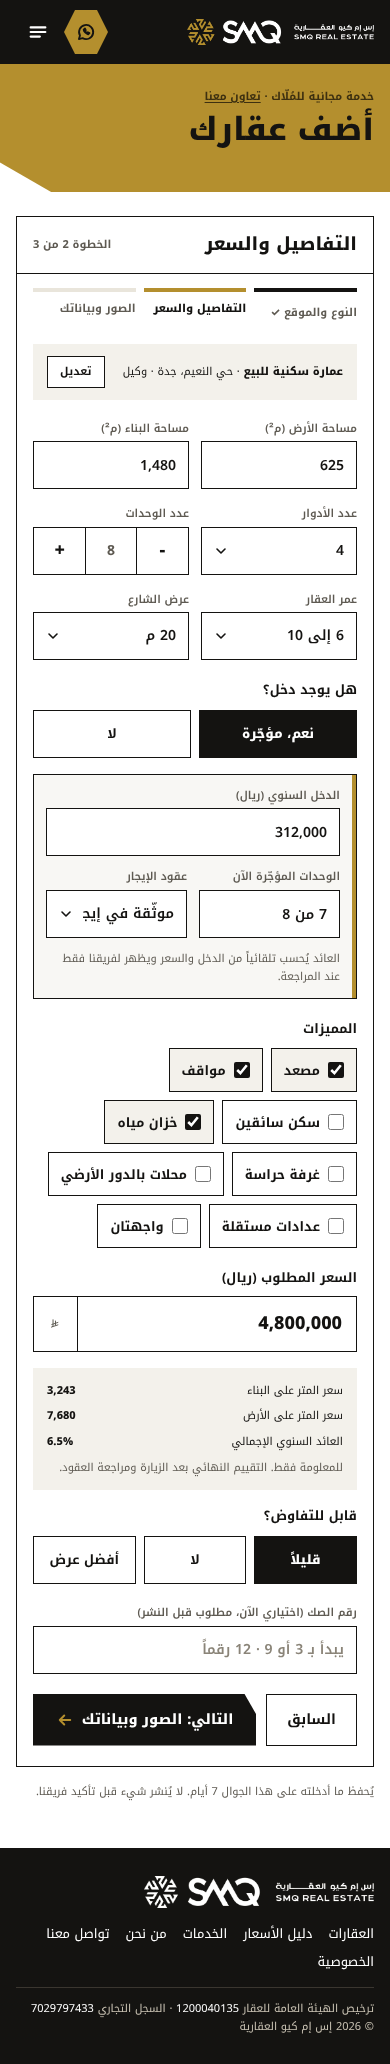
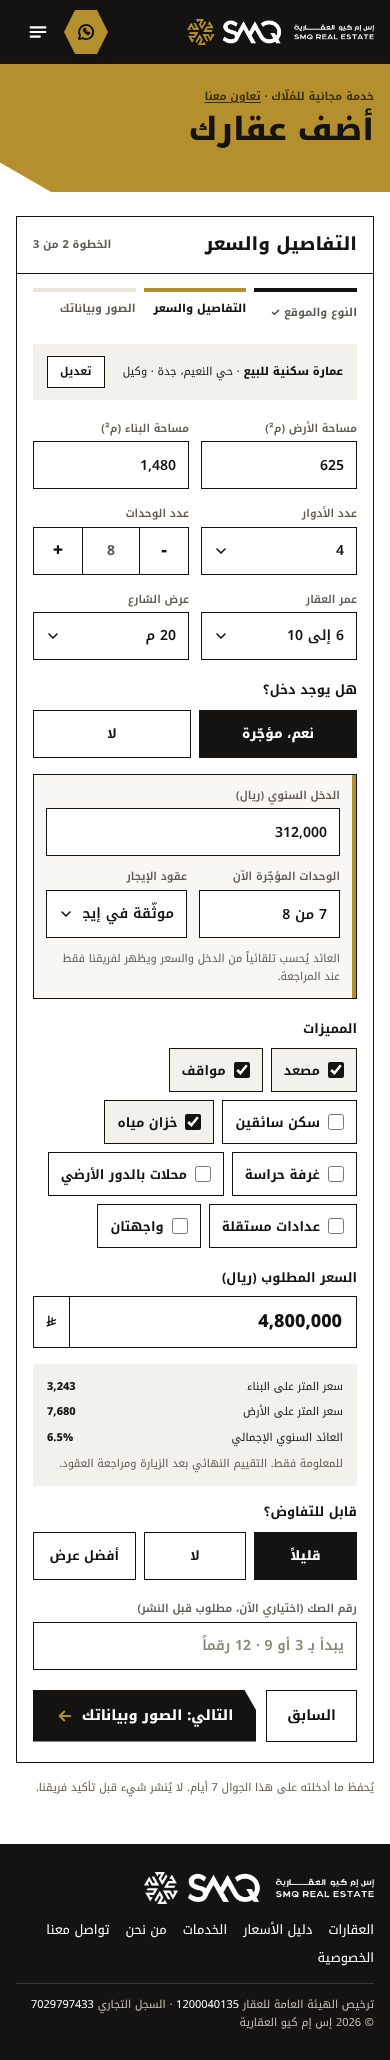
G5 board review: hub doors, add flow, marketer form, success screens
- Hub-D doors at the board height with the facts pinned above the CTA;
  facts column widths; «الحقول [للتأكيد]» as one chip
- Marketer link bar order, form header chip, CV upload tile
- Consent lines regular; phone hint; price field riyal sign and height;
  room and unit counters; «كيف يسير الأمر» rows
- Success number at h1 size, summary rows, single text runs

Claude-Session: https://claude.ai/code/session_01RctsPUCwu79Fhv9ujF1kfR

diff --git a/components/pages/g5/parts.tsx b/components/pages/g5/parts.tsx
@@ -123,14 +123,14 @@ function Eyebrow({ hub, crumb }: { hub?: boolean; crumb?: boolean }) {
   );
 }
 
-/** Phone hero of the add steps (Add-Step1-M / Add-Step2-M / Add-Step2-Building-M / Add-M) */
-export function HeroPhone({ text, hub, className }: { text?: ReactNode; hub?: boolean; className?: string }) {
+/** Phone hero of the add steps (Add-Step1-M / Add-Step2-M / Add-Step2-Building-M / Add-M; Add-M sets its line at 14px) */
+export function HeroPhone({ text, hub, className, textClassName = "text-label" }: { text?: ReactNode; hub?: boolean; className?: string; textClassName?: string }) {
   return (
     <section className={cx("bg-gold text-ink md:hidden", HERO_CUT_PHONE, className)}>
       <Container className="flex flex-col gap-1.5 pb-11 pt-6">
         <Eyebrow hub={hub} />
         <h1 className="m-0 text-h1">أضف عقارك</h1>
-        {text && <p className="m-0 text-label font-normal leading-relaxed text-on-gold-muted">{text}</p>}
+        {text && <p className={cx("m-0 font-normal leading-relaxed text-on-gold-muted", textClassName)}>{text}</p>}
       </Container>
     </section>
   );
@@ -168,13 +168,13 @@ export function HowItWorks({ variant }: { variant: "phone" | "desktop" }) {
       </h2>
       <ol className="m-0 flex list-none flex-col p-0">
         {HOW.map((s, i) => (
-          <li key={s.t} className={cx("flex items-start gap-3.5", phone ? "py-3.5" : "px-6 py-4.5", i > 0 && "border-t border-line")}>
+          <li key={s.t} className={cx("flex items-start", phone ? "gap-3.5 py-3.5" : "gap-4 px-6 py-5", i > 0 && "border-t border-line")}>
             <HexBadge tone={i === 0 ? "ink" : "outline"} className={phone ? "size-10 text-label" : "size-11 text-body"}>
               {i + 1}
             </HexBadge>
-            <span className="flex flex-col gap-1 pt-0.5">
-              <span className={cx("font-extrabold", phone ? "text-body" : "text-h3")}>{s.t}</span>
-              <span className={cx("font-normal text-muted", phone ? "text-caption leading-relaxed" : "text-label")}>{s.d}</span>
+            <span className={cx("flex flex-col pt-0.5", phone ? "gap-1" : "gap-0.5")}>
+              <span className="text-body font-extrabold">{s.t}</span>
+              <span className={cx("font-normal leading-relaxed text-muted", phone ? "text-caption" : "text-label")}>{s.d}</span>
             </span>
           </li>
         ))}
@@ -188,11 +188,11 @@ export function HeroDesktopIntro() {
   return (
     <Container className="hidden pt-12 md:block">
       <div className="grid grid-cols-2 items-stretch gap-8">
-        <section className="flex flex-col items-start gap-2 bg-gold px-10 pb-24 pt-10 text-ink [clip-path:polygon(0_0,100%_0,100%_100%,64px_100%,0_calc(100%-37px))]">
+        <section className="flex flex-col items-start gap-3.5 bg-gold p-10 text-ink [clip-path:polygon(0_0,100%_0,100%_100%,64px_100%,0_calc(100%-37px))]">
           <Eyebrow />
           <h1 className="m-0 text-display">أضف عقارك</h1>
-          <p className="m-0 max-w-xl text-body font-normal leading-relaxed text-on-gold-muted">نموذج من ثلاث خطوات يأخذ دقيقتين. بعدها نتواصل معك خلال 24 ساعة، نصور، وننشر لعملاء جاهزين.</p>
-          <a href={waLink(WA_ADD)} target="_blank" rel="noopener noreferrer" className="mt-4 inline-flex h-13 items-center gap-2.5 bg-ink px-5 text-label font-extrabold text-paper no-underline hover:bg-ink-2 motion-hover transition-colors">
+          <p className="m-0 max-w-120 text-body font-normal text-on-gold-muted">نموذج من ثلاث خطوات يأخذ دقيقتين. بعدها نتواصل معك خلال 24 ساعة، نصور، وننشر لعملاء جاهزين.</p>
+          <a href={waLink(WA_ADD)} target="_blank" rel="noopener noreferrer" className="mt-2 inline-flex h-13 items-center gap-2.5 bg-ink px-5 text-label font-extrabold text-paper no-underline hover:bg-ink-2 motion-hover transition-colors">
             <WhatsAppIcon size={18} />
             تفضّل واتساب؟ أرسل الصك والصور مباشرة
           </a>
@@ -384,7 +384,7 @@ export function Counter({ label, value, onChange, min = 0, max = 99, id }: { lab
       <span id={lid} className="text-caption font-semibold text-muted">
         {label}
       </span>
-      <div role="group" aria-labelledby={lid} className="grid h-12 grid-cols-3 border-interactive bg-paper">
+      <div role="group" aria-labelledby={lid} className="grid h-12 grid-cols-[3rem_minmax(0,1fr)_3rem] border-interactive bg-paper">
         <button type="button" aria-label="أقل" className={btn} disabled={value <= min} onClick={() => onChange(Math.max(min, value - 1))}>
           −
         </button>
@@ -440,7 +440,7 @@ export function MoneyField({ id, label, value, onChange, error, labelClassName =
       <label htmlFor={id} className={cx(labelClassName, error && "text-gold-text")}>
         {label}
       </label>
-      <div className={cx("flex h-14 items-stretch bg-paper", error ? "border-error bg-cream-focus" : "border-interactive has-[:focus]:border-gold has-[:focus]:bg-cream-focus")}>
+      <div className={cx("flex h-13 items-stretch bg-paper md:h-14", error ? "border-error bg-cream-focus" : "border-interactive has-[:focus]:border-gold has-[:focus]:bg-cream-focus")}>
         <NumberInput
           id={id}
           value={value}
@@ -449,7 +449,7 @@ export function MoneyField({ id, label, value, onChange, error, labelClassName =
           aria-describedby={error ? `${id}-error` : undefined}
           className="min-w-0 flex-1 bg-transparent px-3.5 text-h3 font-extrabold text-ink outline-none tnum"
         />
-        <span className="flex w-11 shrink-0 items-center justify-center border-s-[1.5px] border-ink text-label text-muted md:w-12">
+        <span className="flex shrink-0 items-center justify-center border-s-[1.5px] border-ink px-3 text-h3 text-ink md:px-3.5">
           <RiyalSign />
         </span>
       </div>
@@ -458,8 +458,10 @@ export function MoneyField({ id, label, value, onChange, error, labelClassName =
   );
 }
 
-/** One file chosen locally (the power of attorney, the brokerage contract, the CV): dashed tile → the file name */
-export function FileTile({ id, label, accept, prompt, file, onFile, hint }: { id: string; label: ReactNode; accept: string; prompt: string; file: string; onFile: (name: string) => void; hint?: ReactNode }) {
+/** One file chosen locally (the power of attorney, the brokerage contract, the CV): dashed tile (icon and prompt at the
+ *  line start, as Add-Step3-D and Marketer-M/D draw it) → the file name.
+ *  `cream` = the cream tile of a white form (Marketer CV); white inside the cream role block (Add-Step3-D). */
+export function FileTile({ id, label, accept, prompt, file, onFile, hint, cream }: { id: string; label: ReactNode; accept: string; prompt: string; file: string; onFile: (name: string) => void; hint?: ReactNode; cream?: boolean }) {
   return (
     <div className="flex min-w-0 flex-col gap-1">
       <label htmlFor={id} className="text-caption font-semibold text-muted">
@@ -475,7 +477,7 @@ export function FileTile({ id, label, accept, prompt, file, onFile, hint }: { id
           </button>
         </div>
       ) : (
-        <span className="relative flex h-12 cursor-pointer items-center justify-center gap-2 border-[1.5px] border-dashed border-ink bg-paper text-label font-bold text-ink hover:bg-cream has-[:focus-visible]:outline-3 has-[:focus-visible]:outline-offset-2 has-[:focus-visible]:outline-gold">
+        <span className={cx("relative flex h-12 cursor-pointer items-center gap-2.5 border-[1.5px] border-dashed border-ink px-3 text-label font-bold text-ink has-[:focus-visible]:outline-3 has-[:focus-visible]:outline-offset-2 has-[:focus-visible]:outline-gold", cream ? "bg-cream hover:bg-sand" : "bg-paper hover:bg-cream")}>
           <UploadIcon />
           {prompt}
           <input

diff --git a/components/pages/g5/Hub.tsx b/components/pages/g5/Hub.tsx
@@ -5,17 +5,25 @@
 import Link from "next/link";
 import type { ReactNode } from "react";
 import { DoorCard } from "@/components/alliance";
-import { Container, MarkedText } from "@/components/ui";
+import { Container, Mark, MarkedText } from "@/components/ui";
 import { useMarks } from "@/lib/presenter";
 import { cx, waLink } from "@/lib/format";
 import { HUB_FOOTER, Shell } from "./parts";
 
 type Tone = "owners" | "offices" | "marketers";
 
-/** «تحصل على / نحتاج منك / الوقت» under a hairline */
+/** Hub-D: each door is at least 520px tall and its facts sit at the bottom, above the CTA, with the free space after
+ *  the description. DoorCard's text wrapper is the card's second-to-last child (the CTA is the last), so on desktop it
+ *  grows into a flex column and the facts' mt-auto reaches the bottom. */
+const DOOR_D = "md:min-h-130 md:[&>span>:nth-last-child(2)]:flex md:[&>span>:nth-last-child(2)]:grow md:[&>span>:nth-last-child(2)]:flex-col";
+/** the description + facts column inside a door (fills the grown wrapper on desktop) */
+const BODY = "flex flex-col gap-3 md:grow";
+
+/** «تحصل على / نحتاج منك / الوقت» under a hairline: 72px / 84px key column (Hub-M / Hub-D); on desktop pinned to the
+ *  bottom of the door, 14px above the CTA */
 function Facts({ tone, rows }: { tone: Tone; rows: { k: string; v: ReactNode }[] }) {
   return (
-    <span className={cx("mt-1 grid grid-cols-[auto_minmax(0,1fr)] gap-x-4 gap-y-2.5 border-t pt-4 text-caption leading-relaxed md:text-label", tone === "offices" ? "border-ink-2" : tone === "owners" ? "border-on-gold-muted/40" : "border-line")}>
+    <span className={cx("mt-1 grid grid-cols-[4.5rem_minmax(0,1fr)] gap-x-2.5 gap-y-1 border-t pt-2.5 text-caption leading-relaxed md:mb-1 md:mt-auto md:grid-cols-[5.25rem_minmax(0,1fr)] md:gap-x-3 md:gap-y-1.5 md:pt-3 md:text-label", tone === "offices" ? "border-ink-2" : tone === "owners" ? "border-gold-text" : "border-line")}>
       {rows.map((r) => (
         <span key={r.k} className="contents">
           <span className={cx("font-extrabold", tone === "offices" ? "text-gold" : "text-ink")}>{r.k}</span>
@@ -73,8 +81,9 @@ export function Hub() {
             title="عندك عقار؟"
             cta="أضف عقارك"
             size="l"
+            className={DOOR_D}
             text={
-              <span className="flex flex-col gap-3">
+              <span className={BODY}>
                 <span className="text-label font-normal leading-relaxed md:text-body">
                   نعرضه بسعر معلن لمشترين جاهزين، بعد تحقق وتصوير، بلا تكلفة عليك.<span className="hidden md:inline"> شقة، فيلا، أو عمارة بدخل.</span>
                 </span>
@@ -97,8 +106,9 @@ export function Hub() {
             cta="اعرف عن التحالف"
             icon={<Honeycomb />}
             size="l"
+            className={DOOR_D}
             text={
-              <span className="relative flex flex-col gap-3">
+              <span className={cx("relative", BODY)}>
                 <span className="text-label font-normal leading-relaxed md:text-body">
                   {pd(
                     "تحالف مكاتب جدة العقارية: نمرّر طلبات المشترين وعروض العقارات بين المكاتب لنقفل الصفقات أسرع، وكل تعارف مسجّل.",
@@ -124,14 +134,16 @@ export function Hub() {
             cta="انضم كمسوّق"
             icon={
               marks ? (
-                <span className="absolute end-5 top-5 text-caption font-bold text-gold-text md:end-6 md:top-6">
-                  <MarkedText text="الحقول [للتأكيد]" />
+                <span className="absolute end-5 top-5 md:end-6 md:top-6">
+                  {/* Hub-M / Hub-D outline the whole «الحقول [للتأكيد]» as one chip */}
+                  <Mark>الحقول للتأكيد</Mark>
                 </span>
               ) : null
             }
             size="l"
+            className={DOOR_D}
             text={
-              <span className="flex flex-col gap-3">
+              <span className={BODY}>
                 <span className="text-label font-normal leading-relaxed md:text-body">سوّق وحداتنا برابطك الخاص. كل زيارة وضغطة واتساب تُحسب لك، والعمولة مكتوبة قبل أن تبدأ.</span>
                 <span className="flex items-center gap-2.5 bg-sand px-3 py-2.5 font-mono text-caption font-bold text-ink" dir="ltr">
                   <span aria-hidden className="inline-block size-2.5 bg-gold hex-flat" />

diff --git a/components/pages/g5/MarketerForm.tsx b/components/pages/g5/MarketerForm.tsx
@@ -6,7 +6,7 @@ import Link from "next/link";
 import { useRouter } from "next/navigation";
 import { useMemo, useState, type FormEvent } from "react";
 import { DistrictMultiSelect } from "@/components/alliance";
-import { Button, Checkbox, Container, MarkedText, SelectField, TextArea, TextField } from "@/components/ui";
+import { Button, Checkbox, Container, Mark, MarkedText, SelectField, TextArea, TextField } from "@/components/ui";
 import { forms } from "@/data/content";
 import { districts } from "@/data/districts";
 import { useHasHydrated } from "@/lib/location";
@@ -60,14 +60,15 @@ function Tiles() {
   );
 }
 
+/** The ink bar reads left to right as on the boards: the link at the line end, «مثال الرابط» (phone) at the start */
 function LinkBar() {
   return (
-    <div className="flex items-center justify-between gap-3 bg-ink px-4 py-3.5 text-paper cut-m md:px-5">
+    <div className="flex items-center justify-end gap-3 bg-ink px-4 py-3.5 text-paper cut-m md:px-5">
+      <span className="me-auto text-caption font-normal text-on-ink-muted md:hidden">مثال الرابط</span>
       <span className="inline-flex items-center gap-2.5 font-mono text-label" dir="ltr">
         <span aria-hidden className="inline-block size-2.5 bg-gold hex-flat" />
         smq-re.com/r/your-name
       </span>
-      <span className="text-caption font-normal text-on-ink-muted md:hidden">مثال الرابط</span>
     </div>
   );
 }
@@ -153,9 +154,15 @@ export function MarketerForm() {
               طلب الانضمام
             </h2>
             {marks && (
-              <span className="max-w-48 text-end text-caption font-extrabold leading-relaxed text-gold-text md:max-w-none">
-                <MarkedText text="الحقول [للتأكيد] حتى يصل النموذج الحقيقي" />
-              </span>
+              <>
+                <span className="max-w-48 text-end text-caption font-extrabold leading-relaxed text-gold-text md:hidden">
+                  <MarkedText text="الحقول [للتأكيد] حتى يصل النموذج الحقيقي" />
+                </span>
+                {/* Marketer-D outlines the whole note as one chip */}
+                <span className="hidden md:block">
+                  <Mark>الحقول للتأكيد حتى يصل النموذج الحقيقي</Mark>
+                </span>
+              </>
             )}
           </div>
           <form noValidate onSubmit={submit} aria-labelledby="mk-form" className="flex flex-col gap-4 px-4 py-5 md:grid md:grid-cols-2 md:gap-x-4 md:gap-y-5 md:px-6 md:py-6">
@@ -169,10 +176,10 @@ export function MarketerForm() {
             <TextField id="mk-social" label="حسابات التواصل" placeholder="إكس، إنستغرام، سناب: اسم المستخدم" value={draft.social} onChange={(e) => update({ social: e.target.value })} wrapperClassName="md:order-6" />
             <TextArea id="mk-bio" label="نبذة" placeholder="سطران: أين تسوّق وكيف" rows={3} value={draft.bio} onChange={(e) => update({ bio: e.target.value })} wrapperClassName="md:order-8 md:col-span-2" />
             <div className="md:order-7">
-              <FileTile id="mk-cv" label="سيرة ذاتية (اختياري)" accept="application/pdf" prompt="PDF حتى 5 MB" file={draft.cv} onFile={(n) => update({ cv: n })} />
+              <FileTile id="mk-cv" label="سيرة ذاتية (اختياري)" accept="application/pdf" prompt="PDF حتى 5 MB" file={draft.cv} onFile={(n) => update({ cv: n })} cream />
             </div>
             <div className="md:order-9 md:col-span-2">
-              <Checkbox id={ID.consent} checked={draft.consent} onChange={(e) => update({ consent: e.target.checked })} error={errors[ID.consent]} label={<MarkedText text="أوافق على تواصل SMQ معي، وعلى شروط التسويق والعمولة [للتأكيد] عند قبولي." />} />
+              <Checkbox id={ID.consent} checked={draft.consent} onChange={(e) => update({ consent: e.target.checked })} error={errors[ID.consent]} label={<MarkedText text="أوافق على تواصل SMQ معي، وعلى شروط التسويق والعمولة [للتأكيد] عند قبولي." className="font-normal text-ink-2" />} />
             </div>
             <div className="flex flex-col gap-3 md:order-10 md:col-span-2">
               <Button variant="secondary" type="submit" className="w-full md:w-auto md:self-start">

diff --git a/components/pages/g5/Sent.tsx b/components/pages/g5/Sent.tsx
@@ -39,10 +39,10 @@ export function NumberBlock({ no, line }: { no: string; line: ReactNode }) {
     }
   };
   return (
-    <div className="flex flex-col gap-2 bg-ink px-5 py-5 text-paper cut-l md:gap-2.5 md:px-6 md:py-7">
+    <div className="flex flex-col gap-2 bg-ink px-5 py-5 text-paper cut-l md:px-6.5 md:py-6">
       <span className="text-caption font-bold text-on-ink-muted md:text-label">رقم الطلب · احفظه للمتابعة</span>
       <div className="flex items-center justify-between gap-3">
-        <span className="text-h1 font-extrabold leading-none tnum md:text-display" dir="ltr">
+        <span className="text-h1 font-extrabold leading-none tnum" dir="ltr">
           {no}
         </span>
         <button
@@ -75,7 +75,7 @@ export function SentSteps({ steps }: { steps: SentStep[] }) {
             {i + 1}
           </HexBadge>
           <span className="text-label font-normal leading-relaxed md:hidden">
-            <strong className="font-extrabold">{s.title}:</strong> {s.phone}
+            <strong className="font-extrabold">{`${s.title}:`}</strong> {s.phone}
           </span>
           <span className="hidden flex-col gap-1 md:flex">
             <span className="text-label font-extrabold">{s.title}</span>
@@ -90,15 +90,15 @@ export function SentSteps({ steps }: { steps: SentStep[] }) {
 /** «ملخص ما أرسلت» (desktop) */
 export function SentSummary({ rows }: { rows: { label: string; value: ReactNode }[] }) {
   return (
-    <section aria-labelledby="sent-summary" className="hidden flex-col gap-2.5 border-interactive px-5 py-5 text-label font-normal md:flex">
+    <section aria-labelledby="sent-summary" className="hidden flex-col gap-2 border-interactive px-4.5 py-4 text-label font-normal leading-relaxed md:flex">
       <h2 id="sent-summary" className="m-0 text-caption font-extrabold">
         ملخص ما أرسلت
       </h2>
-      <dl className="m-0 flex flex-col gap-2.5">
+      <dl className="m-0 flex flex-col gap-2">
         {rows.map((r) => (
-          <div key={r.label} className="grid grid-cols-[minmax(0,0.75fr)_minmax(0,1fr)] gap-4">
-            <dt className="text-muted">{r.label}</dt>
-            <dd className="m-0 tnum">{r.value}</dd>
+          <div key={r.label} className="flex items-baseline justify-between gap-4">
+            <dt className="shrink-0 text-muted">{r.label}</dt>
+            <dd className="m-0 text-end tnum">{r.value}</dd>
           </div>
         ))}
       </dl>
@@ -111,12 +111,12 @@ export function SentLayout({ text, number, steps, actions, summary }: { text: Re
   return (
     <Container className="pt-8 md:pt-14">
       <div className="flex flex-col gap-6 md:grid md:grid-cols-[minmax(0,1.1fr)_minmax(0,0.9fr)] md:gap-x-12 md:gap-y-6">
-        <div className="order-1 flex flex-col items-start gap-3 md:col-start-1 md:row-start-1">
+        <div className="order-1 flex flex-col items-start gap-3 md:col-start-1 md:row-start-1 md:gap-5.5">
           <HexBadge tone="gold" className="size-14 md:size-16">
             <CheckIcon size={26} />
           </HexBadge>
-          <h1 className="m-0 mt-1 text-h1">وصلنا طلبك</h1>
-          <p className="m-0 text-body font-normal leading-relaxed text-ink-2">{text}</p>
+          <h1 className="m-0 mt-1 text-h1 md:mt-0">وصلنا طلبك</h1>
+          <p className="m-0 text-body font-normal leading-relaxed text-ink-2 md:max-w-130">{text}</p>
         </div>
         <div className="order-2 flex flex-col gap-4 md:col-start-2 md:row-span-3 md:row-start-1">
           {number}

diff --git a/components/pages/g5/AddStep3.tsx b/components/pages/g5/AddStep3.tsx
@@ -68,7 +68,7 @@ export function AddStep3() {
 
   return (
     <Shell>
-      <HeroPhone text="نموذج من ثلاث خطوات يأخذ دقيقتين. بعدها نتواصل معك خلال 24 ساعة، نصور، وننشر لعملاء جاهزين." />
+      <HeroPhone text="نموذج من ثلاث خطوات يأخذ دقيقتين. بعدها نتواصل معك خلال 24 ساعة، نصور، وننشر لعملاء جاهزين." textClassName="text-body" />
       <Container className="mt-7 md:hidden">
         <HowItWorks variant="phone" />
       </Container>
@@ -129,7 +129,7 @@ export function AddStep3() {
                     value={draft.phone}
                     onChange={(e) => update({ phone: e.target.value })}
                     error={errors[FIELD.phone]}
-                    hint={<span className="text-gold-text md:hidden">سنرسل عليه رسالة تأكيد. الرقم مطلوب.</span>}
+                    hint={<span className="font-normal text-gold-text md:hidden">سنرسل عليه رسالة تأكيد. الرقم مطلوب.</span>}
                   />
                   <TextField id={FIELD.email} label="البريد الإلكتروني (اختياري)" type="email" autoComplete="email" ltr value={draft.email} onChange={(e) => update({ email: e.target.value })} error={errors[FIELD.email]} />
                   <TileGroup
@@ -151,13 +151,13 @@ export function AddStep3() {
                 onChange={(e) => update({ consent: e.target.checked })}
                 error={errors[FIELD.consent]}
                 label={
-                  <>
-                    أوافق على تواصل SMQ معي بخصوص هذا العقار، وأقر أني المالك أو مفوّض عنه<span className="md:hidden">.</span>
-                    <span className="hidden md:inline">، وأن المعلومات صحيحة.</span>{" "}
+                  <span className="font-normal text-muted md:text-ink-2">
+                    <span className="md:hidden">أوافق على تواصل SMQ معي بخصوص هذا العقار، وأقر أني المالك أو مفوّض عنه.</span>
+                    <span className="hidden md:inline">أوافق على تواصل SMQ معي بخصوص هذا العقار، وأقر أني المالك أو مفوّض عنه، وأن المعلومات صحيحة.</span>{" "}
                     <Link href="/privacy" className="text-gold-text underline underline-offset-2 hover:text-ink">
                       سياسة الخصوصية
                     </Link>
-                  </>
+                  </span>
                 }
               />
               <NavRow back={`/add/details${query}`} next="أرسل الطلب" />
